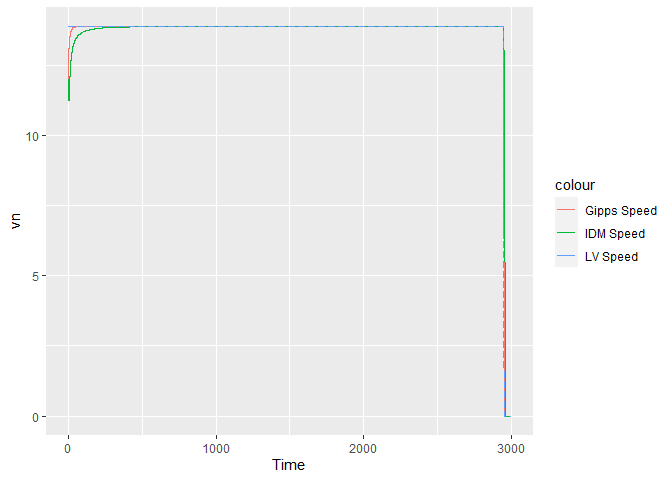
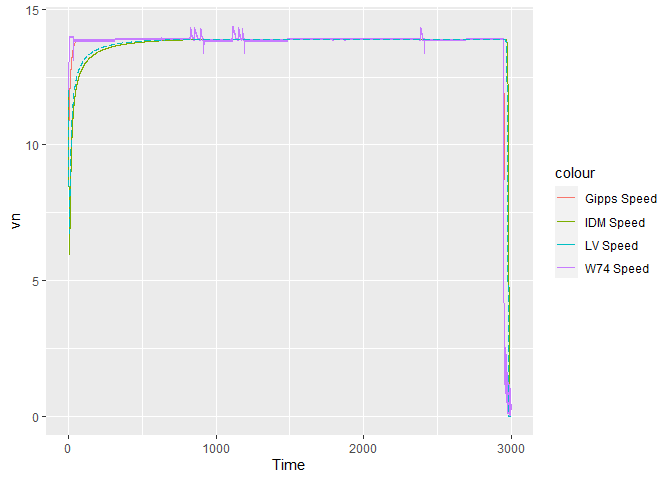
readme updated

diff --git a/README.md b/README.md
@@ -296,24 +296,30 @@ ggplot(data = results_w74d) +
 
 ### Compare Models
 
-Following shows the speed of first following vehicle as predicted by
-different models:
+Comparing models is difficult as each model has at least a few unique
+parameters of its own. Nevertheless, following shows the speed of the
+fifth following vehicle as predicted by different models:
 
 ``` r
 results_gipps_fv1 <- results_gipps %>% 
-  filter(fvn == 1)
+  filter(fvn == 5)
 
 results_idm_fv1 <- results_idm %>% 
-  filter(fvn == 1)
+  filter(fvn == 5)
+
+results_w74d_fv1 <- results_w74d %>% 
+  filter(fvn == 5)
 
 ggplot() +
   geom_line(data = results_gipps_fv1 ,
             aes(x = Time, y = vn, color = "Gipps Speed")) +
   geom_line(data = results_idm_fv1 ,
             aes(x = Time, y = vn, color = "IDM Speed")) +
+  geom_line(data = results_w74d_fv1 ,
+            aes(x = Time, y = vn, color = "W74 Speed")) +
   geom_line(data = results_idm_fv1 ,
             aes(x = Time, y = vn1, color = "LV Speed"), linetype = "longdash")
-#> Warning: Removed 438 row(s) containing missing values (geom_path).
+#> Warning: Removed 434 row(s) containing missing values (geom_path).
 ```
 
 <img src="man/figures/README-unnamed-chunk-4-1.png" width="100%" />
